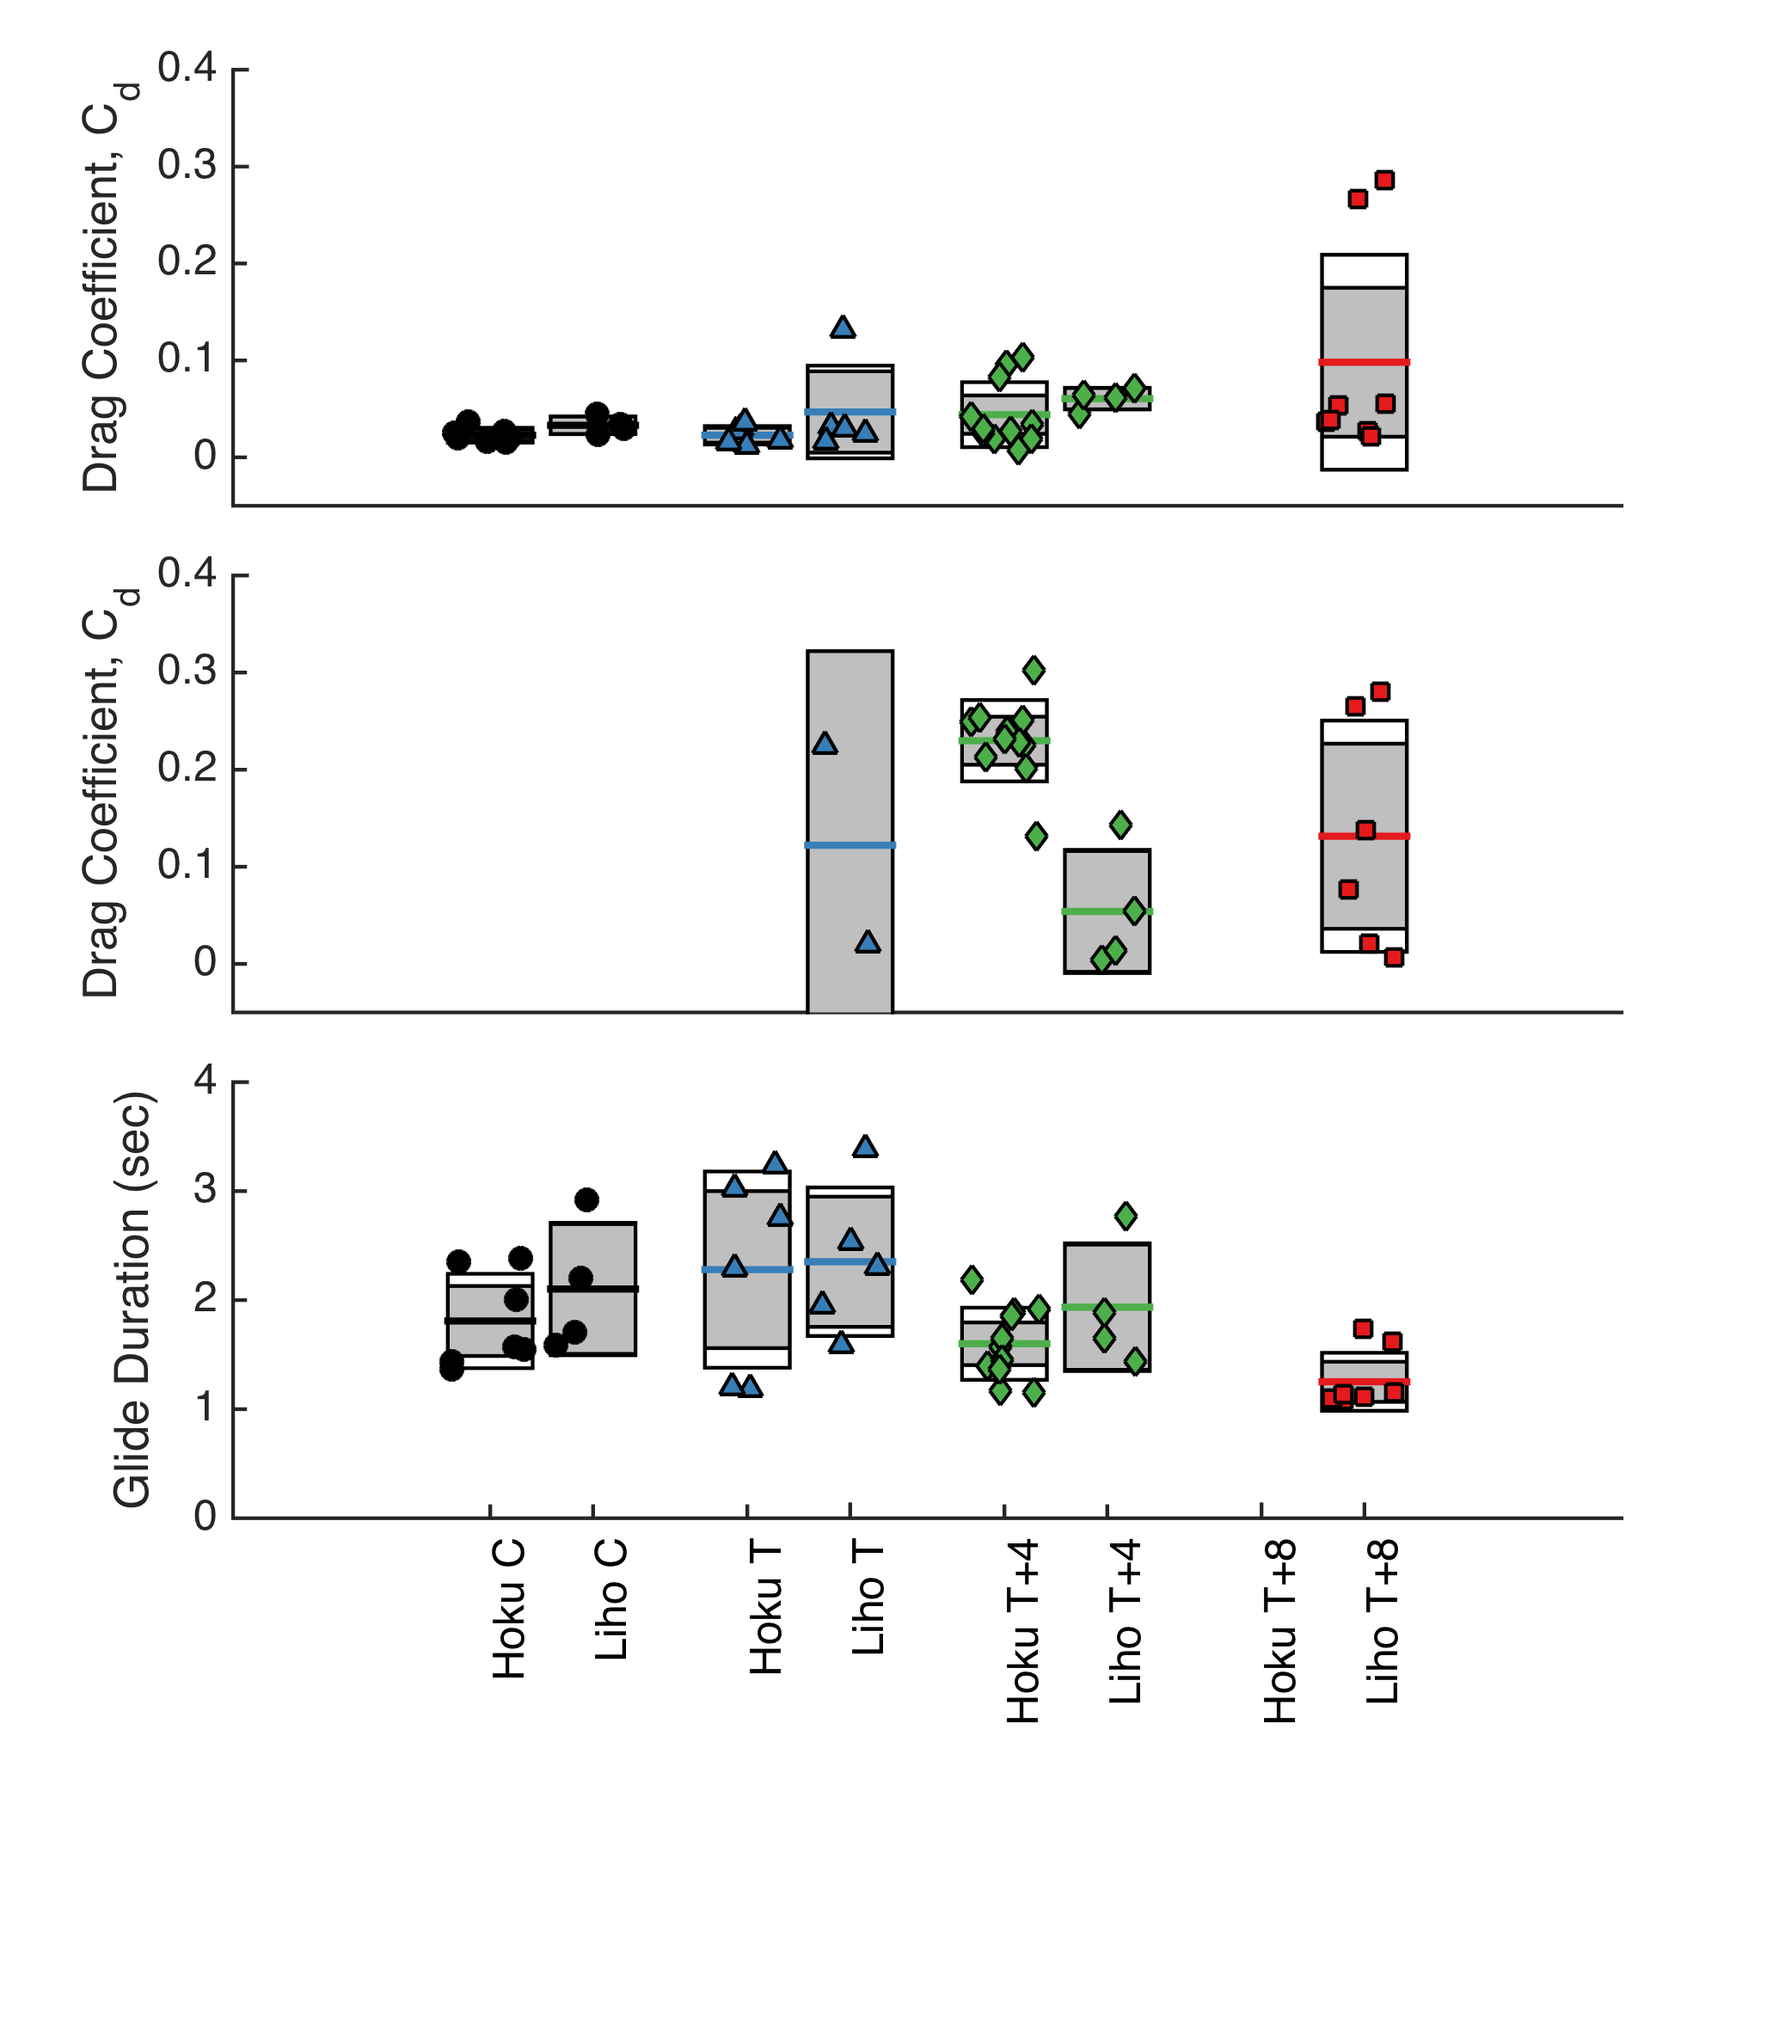
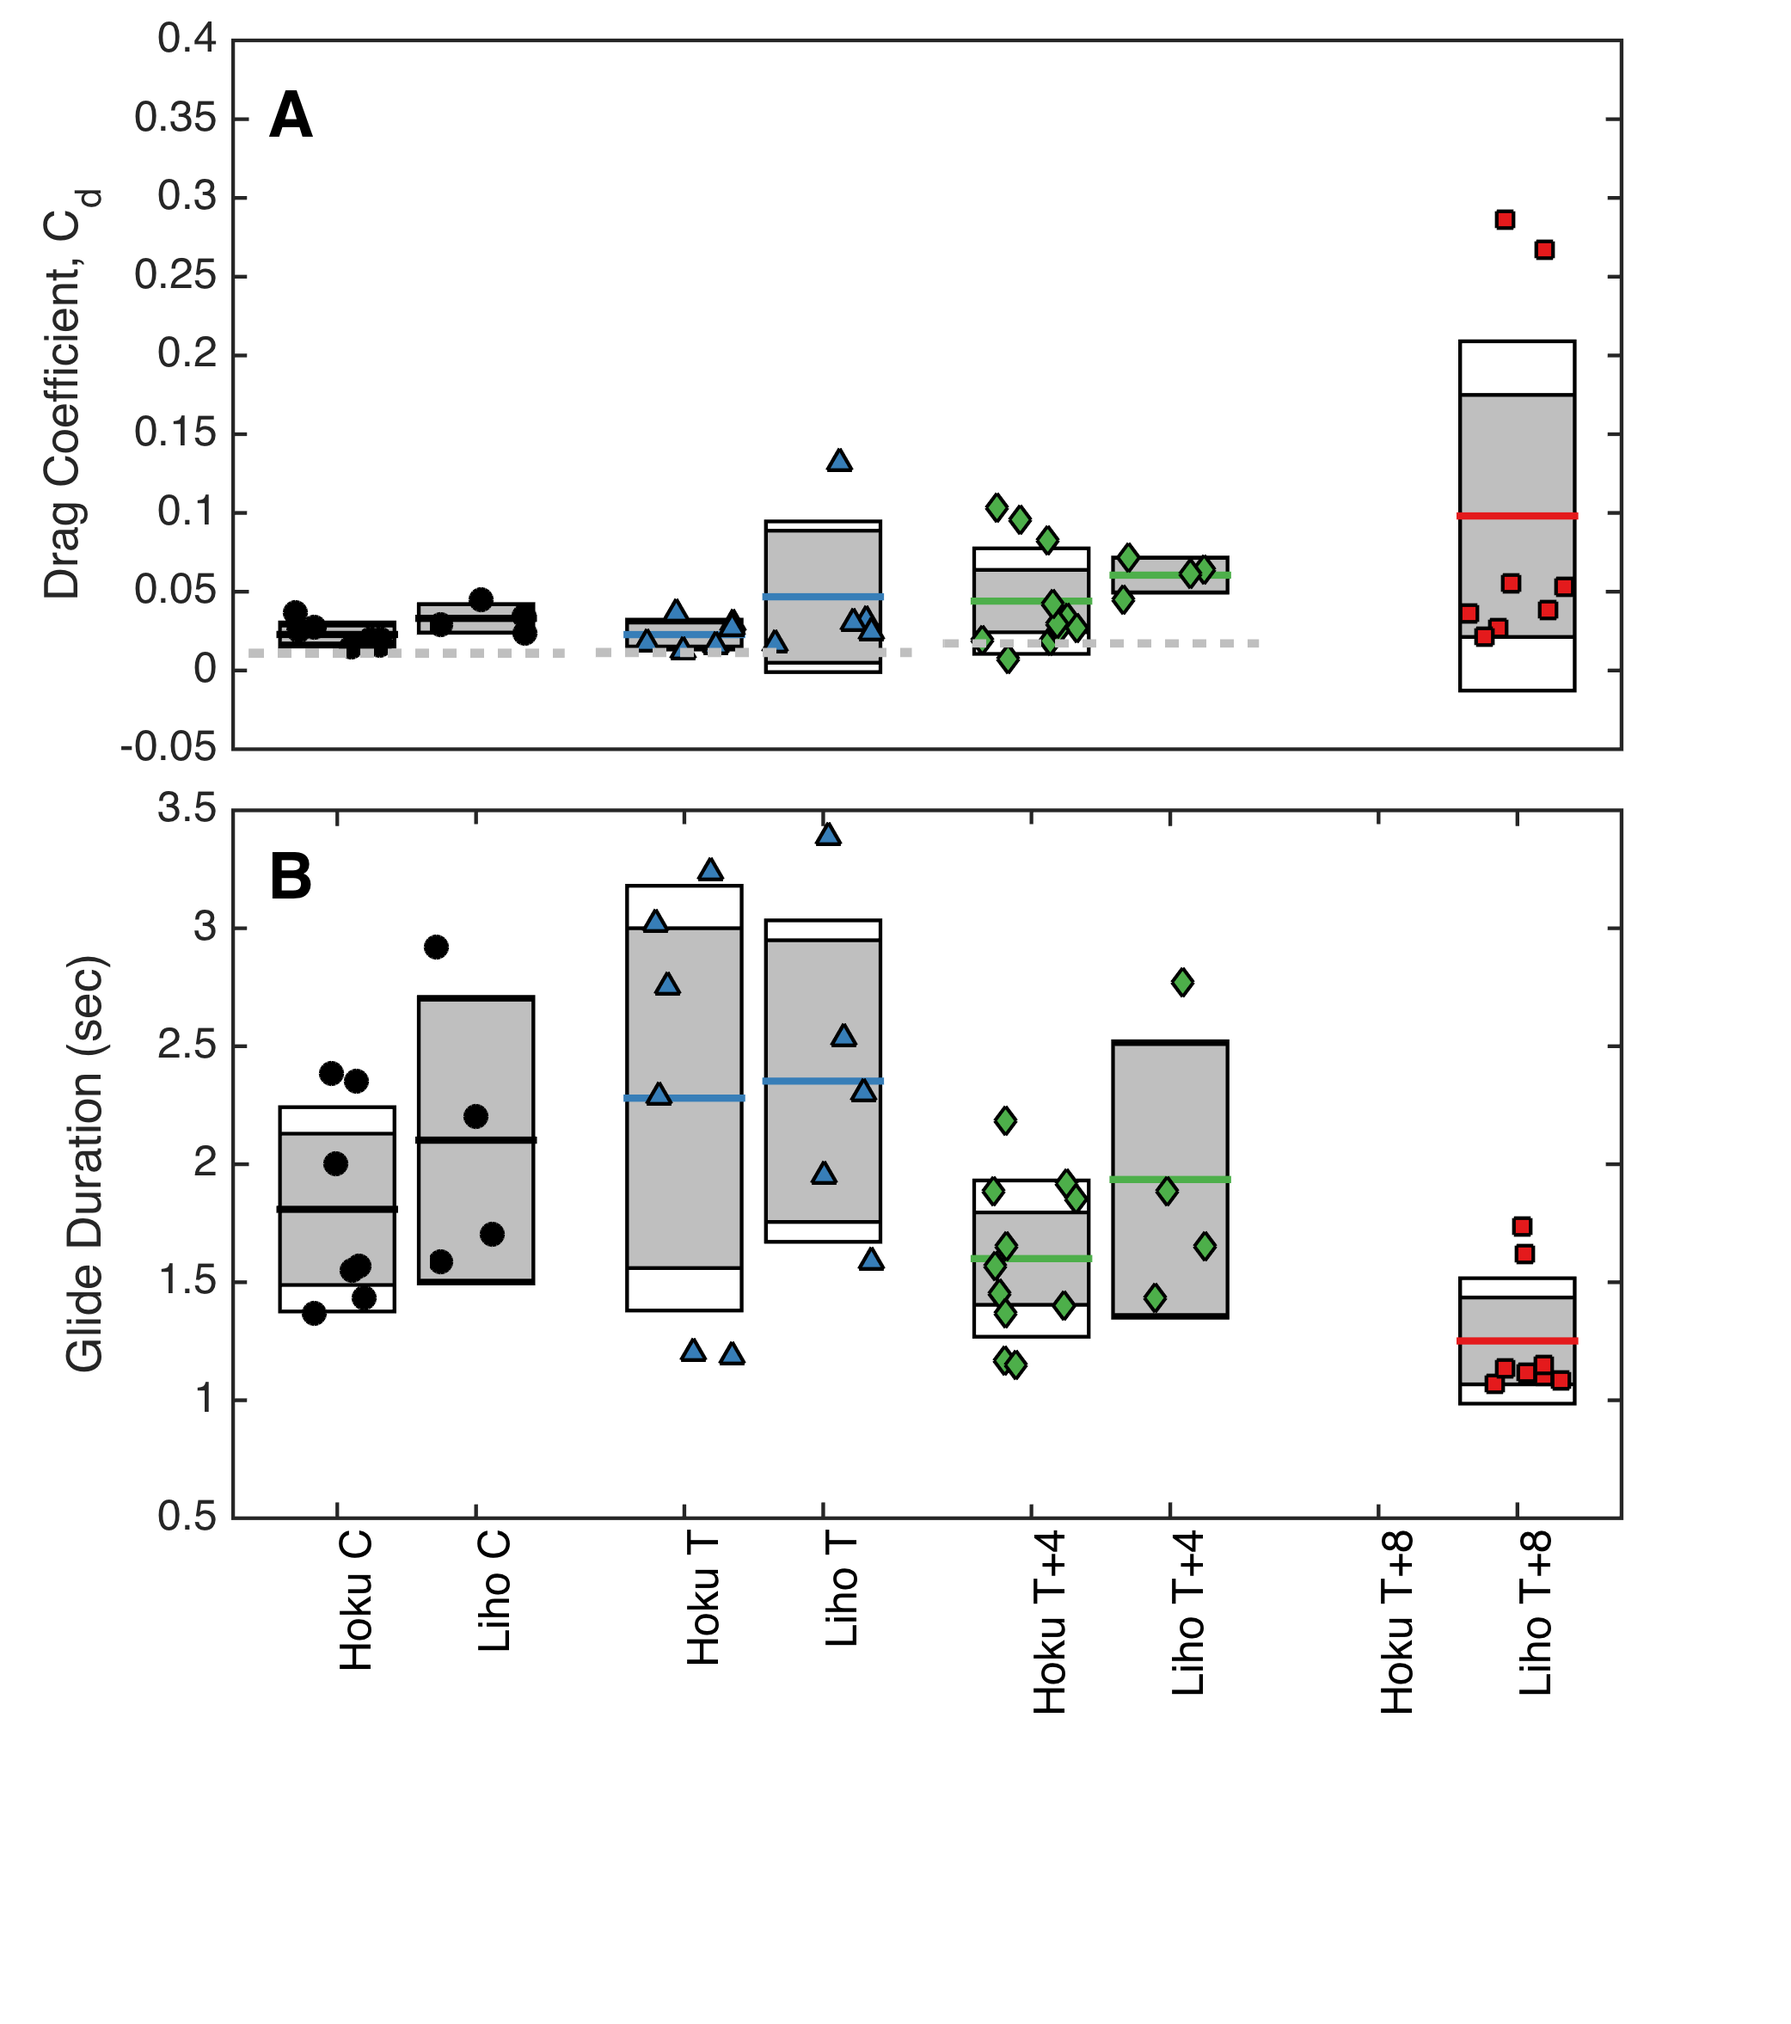
Figure changes for NOPP Report

diff --git a/Glides/GlideDataPlots.m b/Glides/GlideDataPlots.m
@@ -338,7 +338,7 @@ xlabel('Condition');
 ylabel({'Glide Duration (sec)',''})
 adjustfigurefont
 set(gca,'position',[0.13 0.25 0.7750 0.35])
-text(0.1,3.2,'C','FontSize',18,'FontWeight','Bold'); box on
+text(0.1,3.2,'B','FontSize',18,'FontWeight','Bold'); box on
 
 print('Glide_Boxplots','-dpng','-r300')
 
